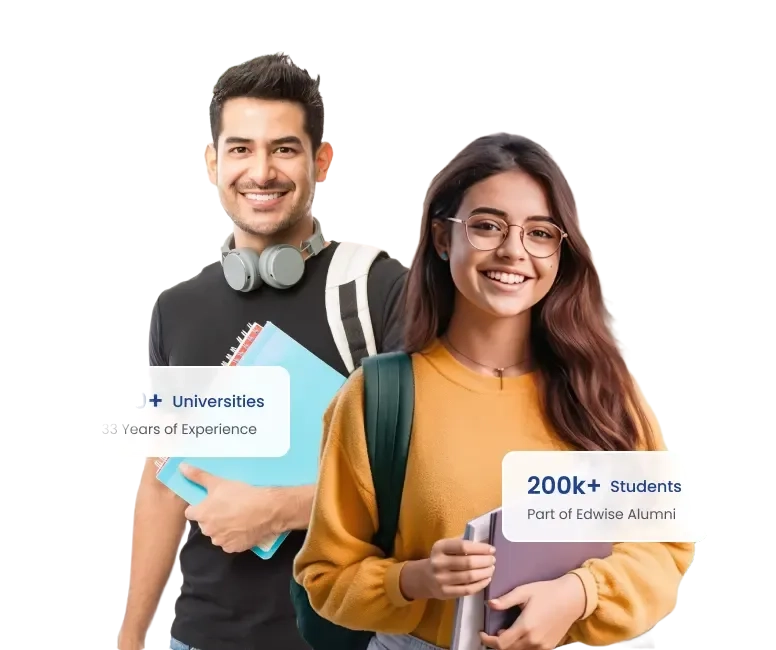
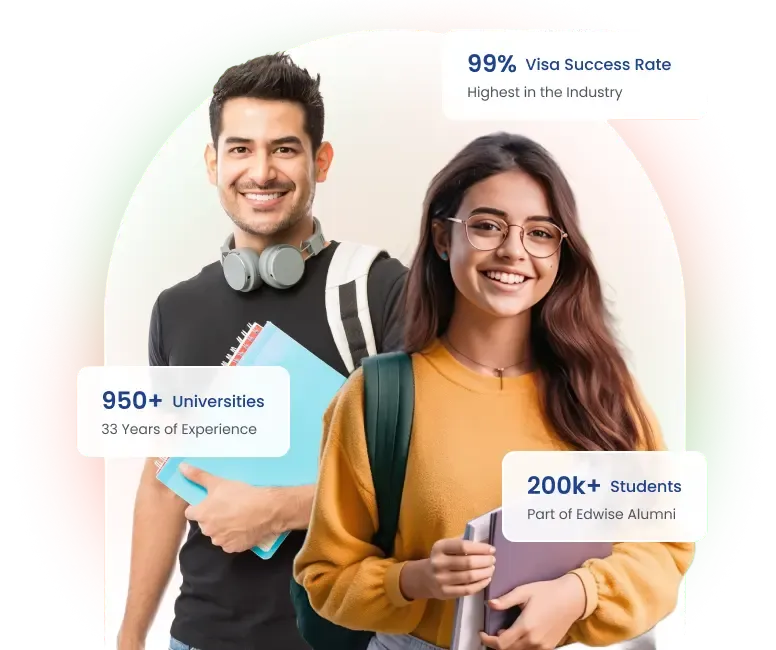
home

diff --git a/app/page.js b/app/page.js
@@ -66,22 +66,22 @@ export default function HomePage() {
 
   return (
     <>
-      <section className="relative min-h-screen flex flex-col md:flex-row items-center justify-between px-6 md:px-16 py-12 overflow-hidden">
-        {/* ✅ Background Image */}
+      <section className="relative min-h-screen flex flex-col md:flex-row items-center justify-between px-4 sm:px-6 md:px-16 py-12 overflow-hidden">
+        {/* Background Image */}
         <div className="absolute inset-0 -z-20">
           <Image
-            src="/home1.png" // make sure this is in your /public directory
+            src="/home1.png"
             alt="Background"
             fill
-            className="object-contain object-center opacity-60"
+            className="object-cover object-center opacity-60"
             priority
           />
         </div>
 
-        {/* ✅ Dark overlay for better text contrast */}
+        {/* Dark overlay */}
         <div className="absolute inset-0 bg-black/20 -z-10" />
 
-        {/* ✅ Optional decorative gradient */}
+        {/* Decorative gradient */}
         <div className="absolute -top-10 -right-10 w-[500px] h-[500px] bg-gradient-to-br from-pink-200 via-green-100 to-white rounded-full opacity-40 blur-2xl z-10" />
 
         <AnimatePresence mode="wait">
@@ -93,37 +93,32 @@ export default function HomePage() {
             transition={{ duration: 0.6 }}
             className="flex flex-col md:flex-row items-center justify-between w-full z-20"
           >
-            {/* Left Text */}
-            <div className="w-full md:w-1/2">
-              <h1 className="text-4xl md:text-4xl font-bold leading-tight mb-6 text-black">
+            {/* Text Section */}
+            <div className="w-full md:w-1/2 text-center md:text-left">
+              <h1 className="text-2xl sm:text-3xl md:text-4xl font-bold leading-tight mb-6 text-black">
                 {animateText(currentContent.title)}{" "}
                 <span className="text-black font-extrabold underline decoration-red-500 underline-offset-4">
                   {animateText(currentContent.highlight)}
                 </span>{" "}
                 {animateText(currentContent.suffix)}
               </h1>
-              <p className="text-white/90 text-lg mb-8">
+
+              <p className="text-white/90 text-base sm:text-lg mb-8">
                 {currentContent.description}
               </p>
 
-              <div className="flex flex-wrap gap-4">
-                {/* Gradient Button: Book a free consultation */}
+              <div className="flex flex-col sm:flex-row gap-4 sm:items-center justify-center md:justify-start">
                 <Link href="/contact">
-                  <button
-                    aria-label="Book a free consultation"
-                    className="bg-gradient-to-r from-orange-400 to-yellow-600  text-white px-6 py-3 rounded-md font-semibold shadow hover:opacity-90 transition"
-                  >
+                  <button className="bg-gradient-to-r from-orange-400 to-yellow-600 text-white px-6 py-3 rounded-md font-semibold shadow hover:opacity-90 transition">
                     Book Free Consultation
                   </button>
                 </Link>
 
-                {/* WhatsApp Button */}
                 <a
                   href="https://wa.me/9666903211"
                   target="_blank"
                   rel="noopener noreferrer"
-                  aria-label="Chat on WhatsApp"
-                  className="border border-blue-800 text-blue-800 bg-white px-6 py-3 rounded-md font-semibold flex items-center gap-2 hover:bg-blue-50 transition"
+                  className="border border-blue-800 text-blue-800 bg-white px-6 py-3 rounded-md font-semibold flex items-center gap-2 justify-center hover:bg-blue-50 transition"
                 >
                   <FaWhatsapp className="text-xl" />
                   WhatsApp
@@ -131,20 +126,21 @@ export default function HomePage() {
               </div>
             </div>
 
-            {/* Right Image */}
-            <div className="w-full md:w-1/2 relative mt-12 md:mt-0">
+            {/* Image Section */}
+            <div className="w-full md:w-1/2 flex justify-center mt-12 md:mt-0">
               <Image
                 src={currentContent.image}
                 alt={`Image for ${currentContent.title}`}
-                width={500}
-                height={500}
-                className="mx-auto rounded-lg object-cover"
+                width={400}
+                height={400}
+                className="rounded-lg object-contain w-full max-w-[90%] sm:max-w-[400px]"
               />
             </div>
           </motion.div>
         </AnimatePresence>
       </section>
-      {/* Other Sections */}
+
+      {/* Additional Sections */}
       <Achievements />
       <TopDestinations />
       <OurServices />
